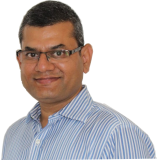
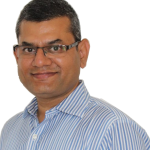
Crop photo to remove whitespace and center face

diff --git a/docs/css/styles.css b/docs/css/styles.css
@@ -67,7 +67,7 @@ body {
     height: 45px;
     border-radius: 50%;
     object-fit: cover;
-    object-position: 60% top;
+    object-position: center top;
     border: 2px solid var(--primary-color);
 }
 
